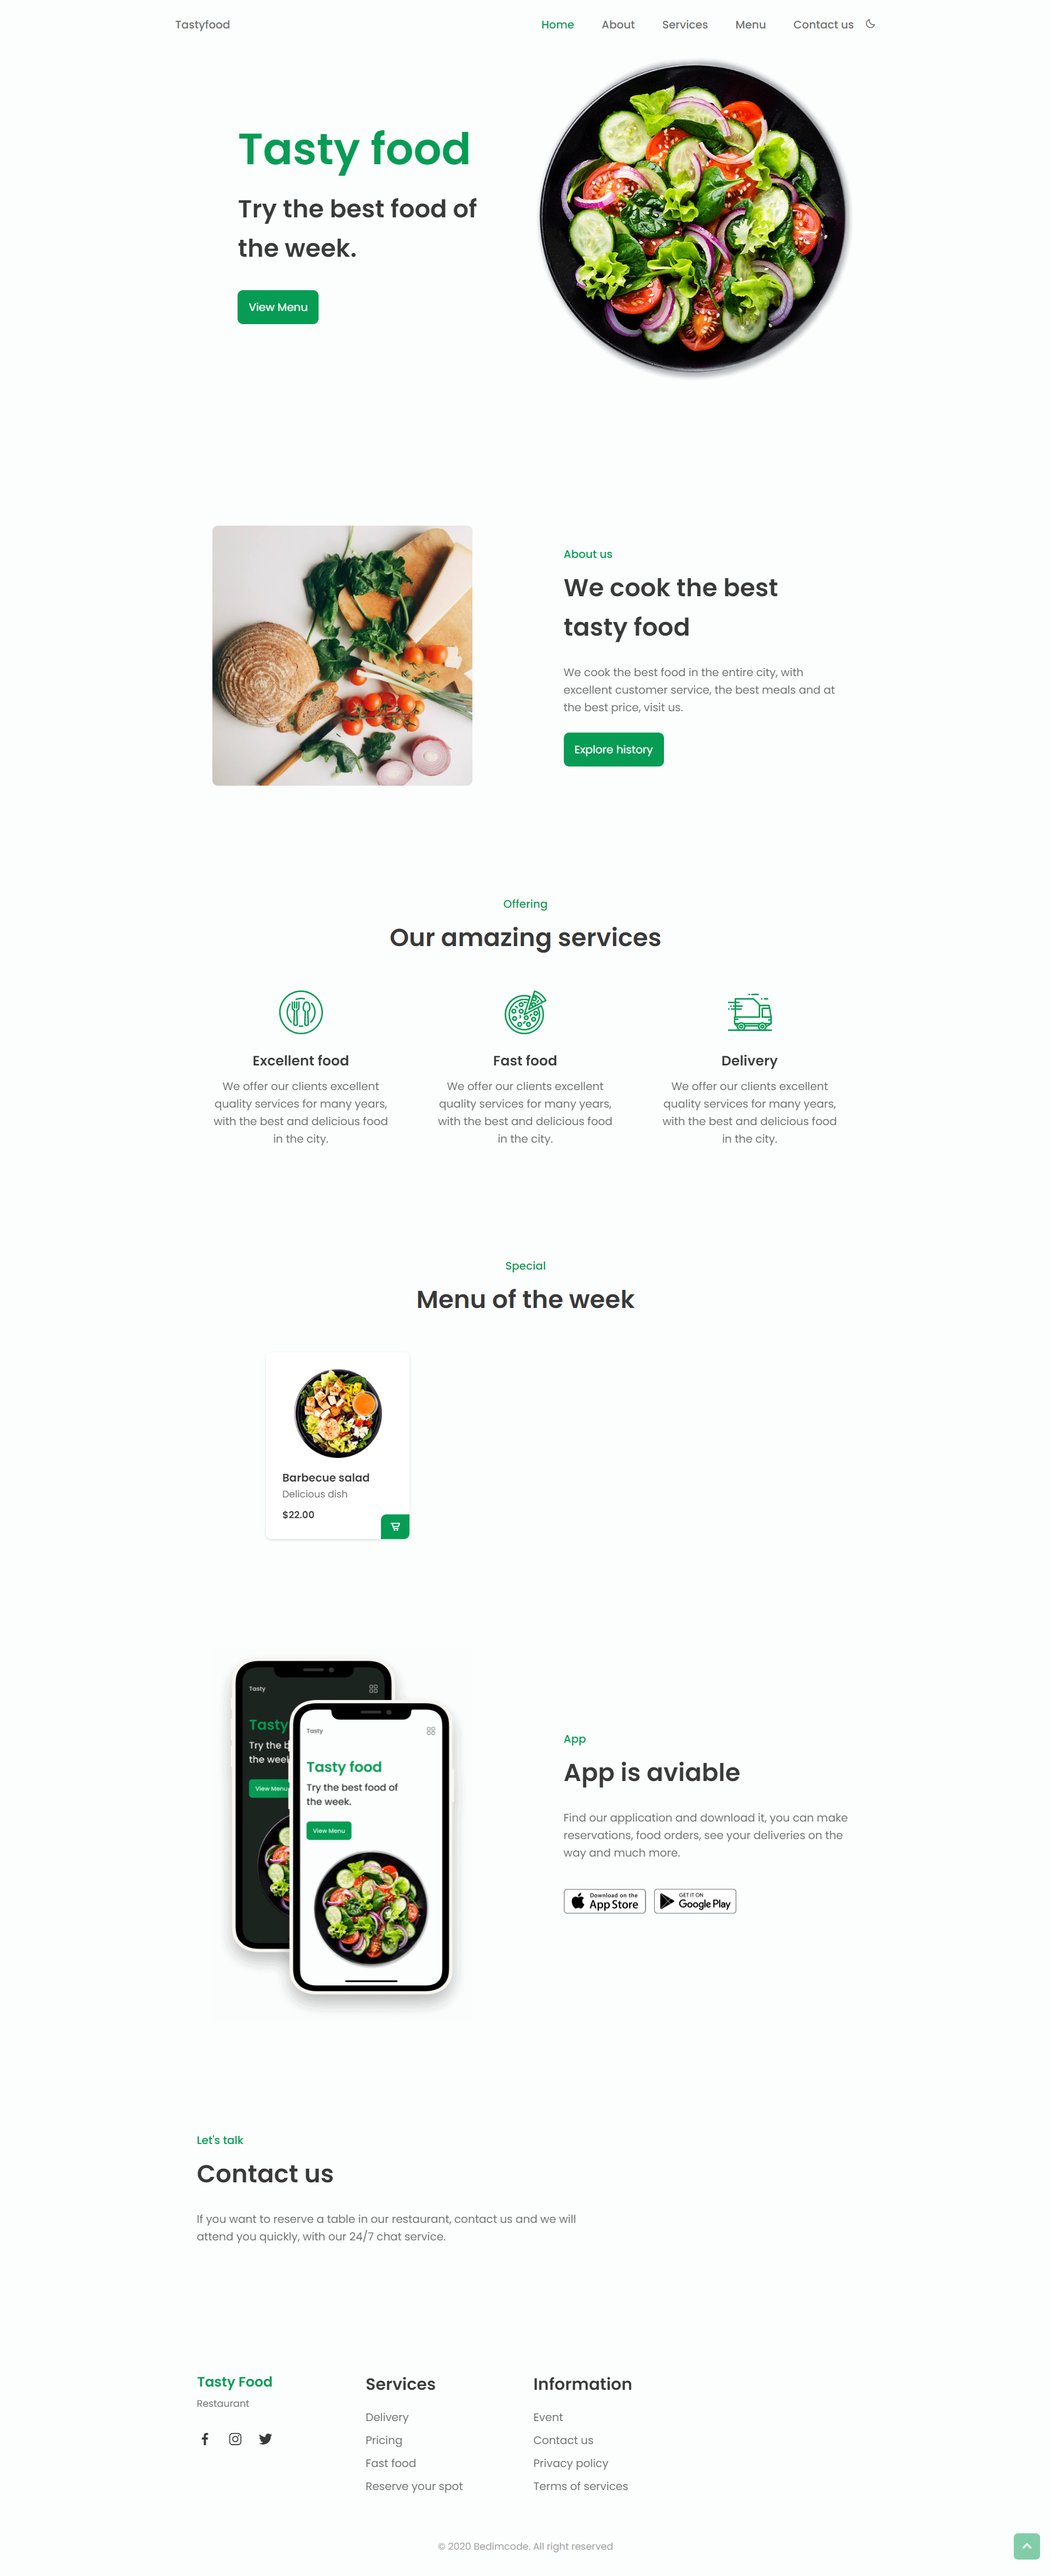
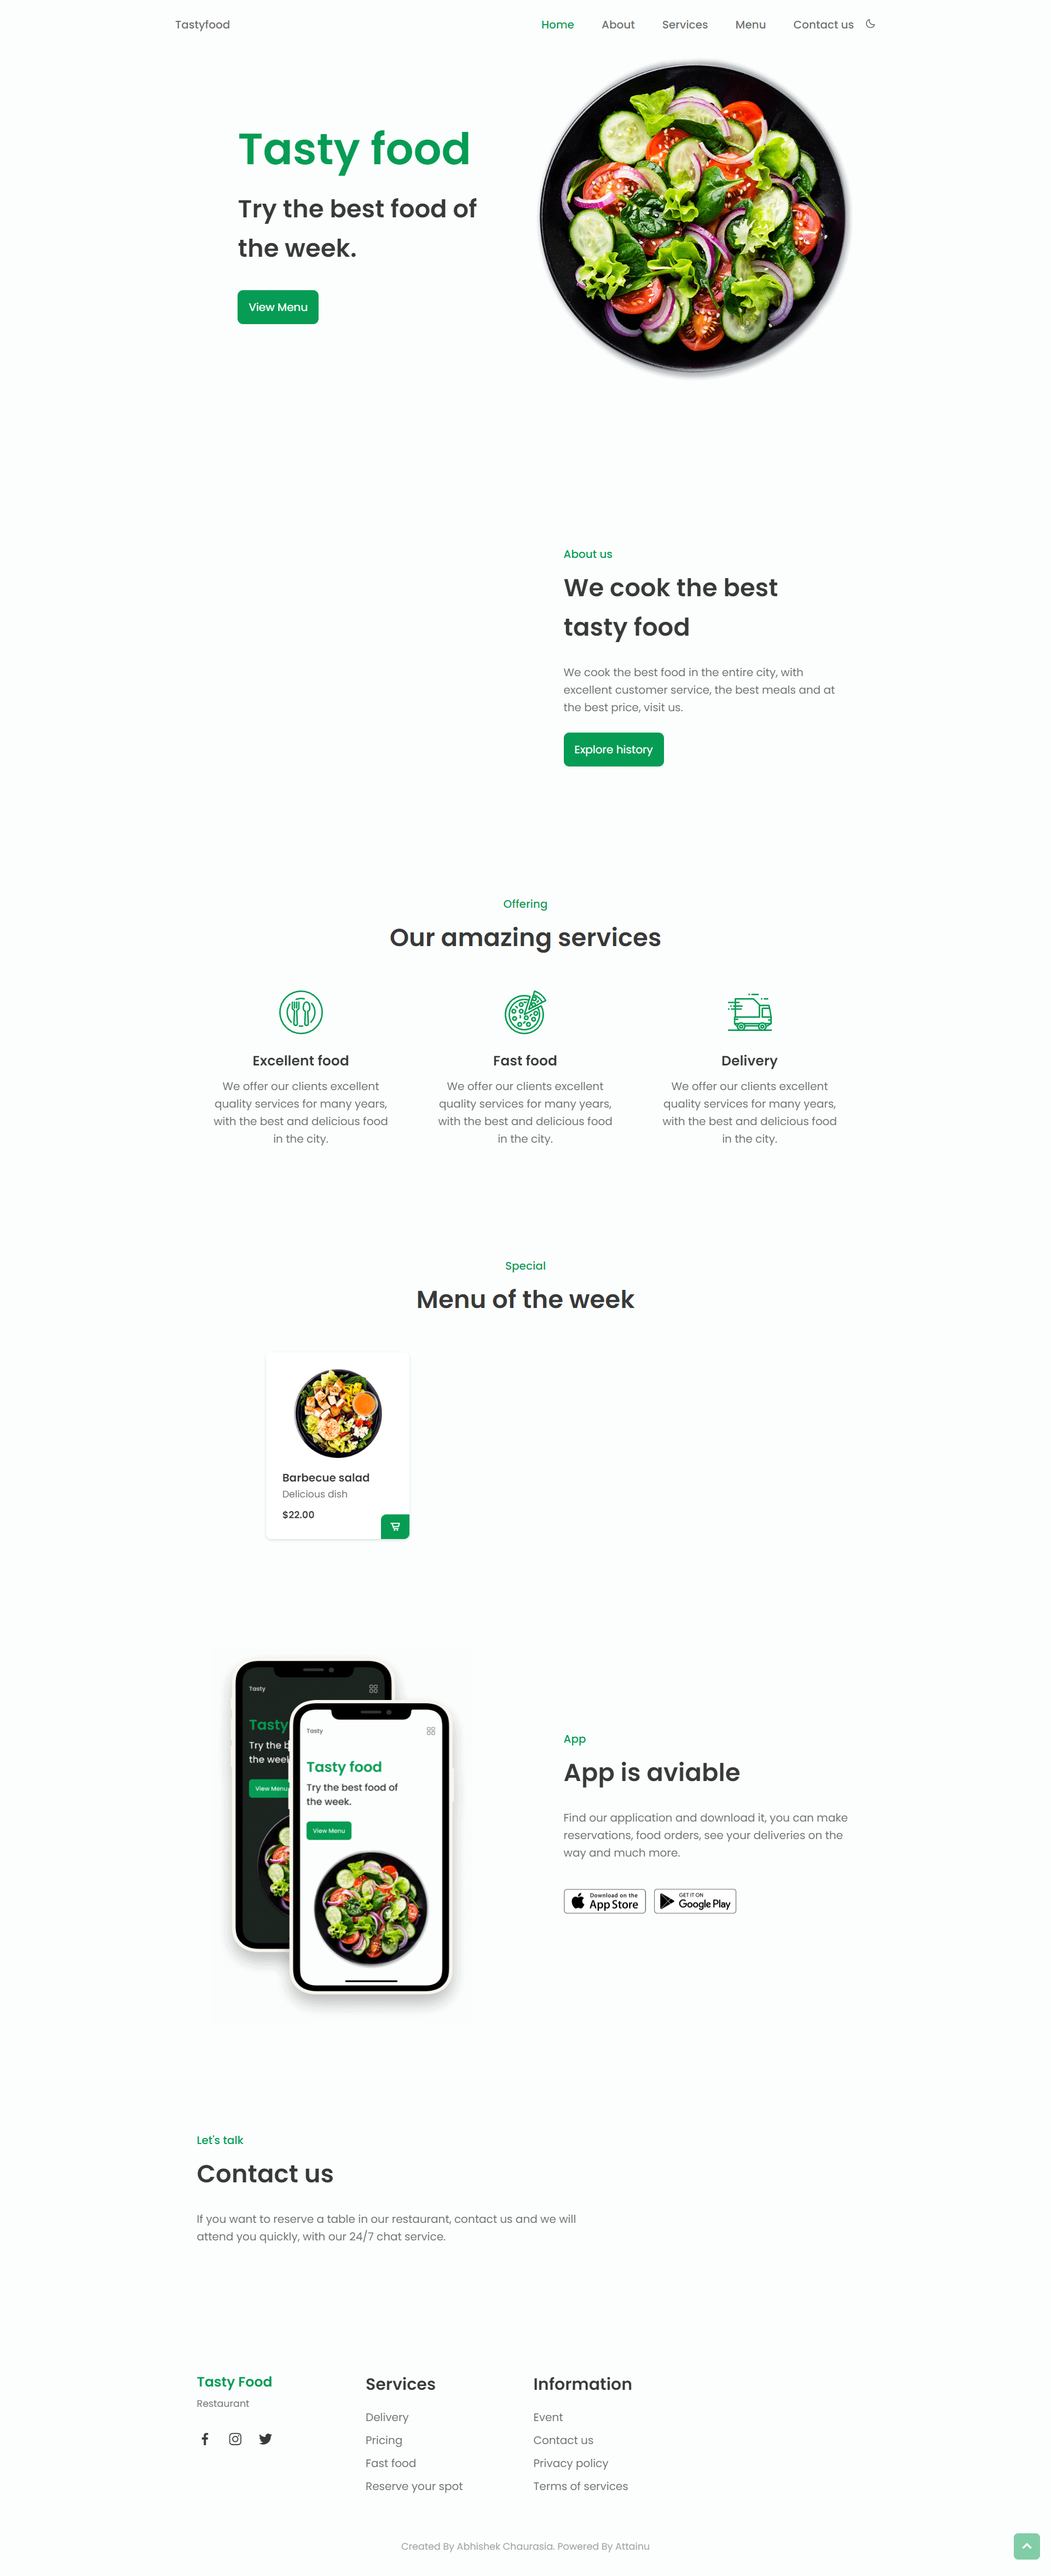
One Page Webpage

Changed region(s): [[0.1875, 0.1875, 0.4688, 0.3124]]

diff --git a/index.html b/index.html
@@ -481,7 +481,7 @@
             </div>
         </div>
 
-        <p class="footer__copy">&#169; 2020 Abhishek Chaurasia. All right reserved</p>
+        <p class="footer__copy">Created By Abhishek Chaurasia. Powered By Attainu</p>
     </footer>
 
     <!--========== SCROLL REVEAL ==========-->

diff --git a/README.md b/README.md
@@ -1,5 +1,5 @@
 # Responsive Website Restaurant
-## Responsive Website Restaurant
+
 Nice design of a responsive restaurant website 🥗 . It contains a header, home, about, services, menu, app, contact and a footer. It also has a fully developed light/dark mode 🌓 first for mobile then for desktop.
 
 ## Tools
